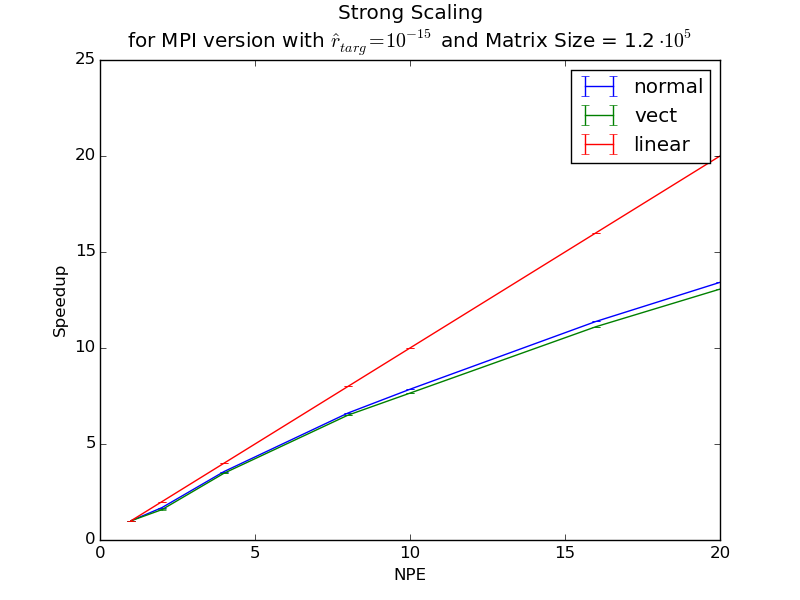
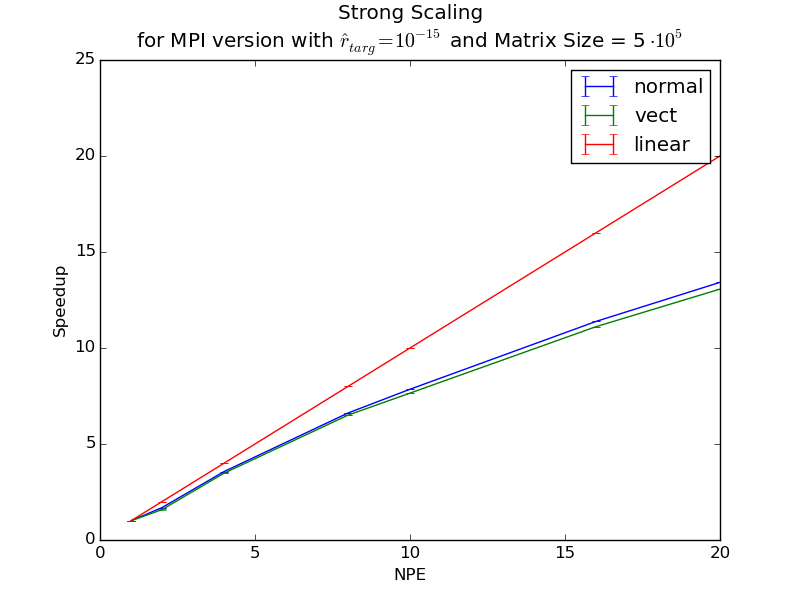
add weak_scaling data

Changed region(s): [[0.1562, 0.03, 0.875, 0.09]]

diff --git a/D3/src/plot.py b/D3/src/plot.py
@@ -2,7 +2,7 @@ import numpy as np
 import matplotlib.pyplot as plt
 
 # nfiles = ["results/strong_timing.safe", "results/strong_timing.vec", "results/weak_timing.dat", "results/weak_timing.vec"]
-nfiles = ["results/strong_timing.opt", "results/strong_timing.dat", "results/weak_timing.dat", "results/weak_timing.vec"]
+nfiles = ["results/strong_timing.safe", "results/strong_timing.vec", "results/weak_timing.safe", "results/weak_timing.vec"]
 rep = 10     # number of repetition per measure, set in top of src/main.c
 
 for namef in nfiles:
@@ -68,7 +68,7 @@ for namef in nfiles:
 plt.errorbar(nproc, strong[0]/strong, yerr=s_err, label = "normal")
 plt.errorbar(nproc, strong_v[0]/strong_v, yerr=sv_err, label = "vect")
 plt.errorbar(nproc, nproc, yerr=err, label = "linear")
-plt.title('Strong Scaling\nfor MPI version with $\hat{r}_{targ} = 10^{-15}$ and Matrix Size = 1.2$\cdot 10^5$')
+plt.title('Strong Scaling\nfor MPI version with $\hat{r}_{targ} = 10^{-15}$ and Matrix Size = 5$\cdot 10^5$')
 plt.xlabel('NPE')
 plt.ylabel('Speedup')
 plt.legend()
@@ -77,7 +77,7 @@ plt.close('all')
 
 plt.errorbar(nproc, strong, yerr=s_err, label = "normal")
 plt.errorbar(nproc, strong_v, yerr=sv_err, label = "vect")
-plt.title('Execution time\nfor MPI version with $\hat{r}_{targ} = 10^{-15}$ and Matrix Size = 1.2$\cdot 10^5$')
+plt.title('Execution time\nfor MPI version with $\hat{r}_{targ} = 10^{-15}$ and Matrix Size = 5$\cdot 10^5$')
 plt.xlabel('NPE')
 plt.ylabel('time (s)')
 plt.legend()
@@ -85,10 +85,10 @@ plt.savefig("results/exec_time.png")
 plt.close('all')
 
 plt.errorbar(sizem, weak, yerr=w_err, label = "normal")
-# plt.errorbar(sizem, weak_v, yerr=wv_err, label = "vect")
+plt.errorbar(sizem, weak_v, yerr=wv_err, label = "vect")
 plt.title('Scaling obtained with $\hat{r}_{targ} = 10^{-15}$ Matrix Size = 12000 * NPE')
 plt.xlabel('Matrix Size')
 plt.ylabel('time (s)')
-# plt.legend()
+plt.legend()
 plt.savefig("results/second_scaling.png")
 plt.close('all')

diff --git a/D3/src/benchmark.c b/D3/src/benchmark.c
@@ -16,7 +16,7 @@ int main(int argc, char** argv){
   double sigma = 0.6, s = -0.5;
   int i, j, n_it, L;
   
-  L = 500000; // "full" vector size
+  L = 12000; //500000; // "full" vector size
 
 #ifdef __MPI
 
@@ -34,7 +34,7 @@ int main(int argc, char** argv){
   MPI_Comm_size(MPI_COMM_WORLD, &NPE);
 
   /* FOR WEAK SCALING MEASURE */
-  /* L *= NPE; */
+  L *= NPE;
 
   MyTag = 42;
   vsize = L;
@@ -110,12 +110,12 @@ int main(int argc, char** argv){
   
   if(MyID == 0){
     /* STRONG SCALING DATA */
-  timing = fopen("results/strong_timing.dat", "a");
-  fprintf(timing, "%d\t%lg\n", NPE, tend - tstart);
+  /* timing = fopen("results/strong_timing.dat", "a"); */
+  /* fprintf(timing, "%d\t%lg\n", NPE, tend - tstart); */
 
     /* WEAK SCALING */
-  /* timing = fopen("results/weak_timing.dat", "a"); */
-  /* fprintf(timing, "%d\t%lg\n", vsize, tend - tstart); */
+  timing = fopen("results/weak_timing.dat", "a");
+  fprintf(timing, "%d\t%lg\n", vsize, tend - tstart);
 
   fclose(timing);
 
